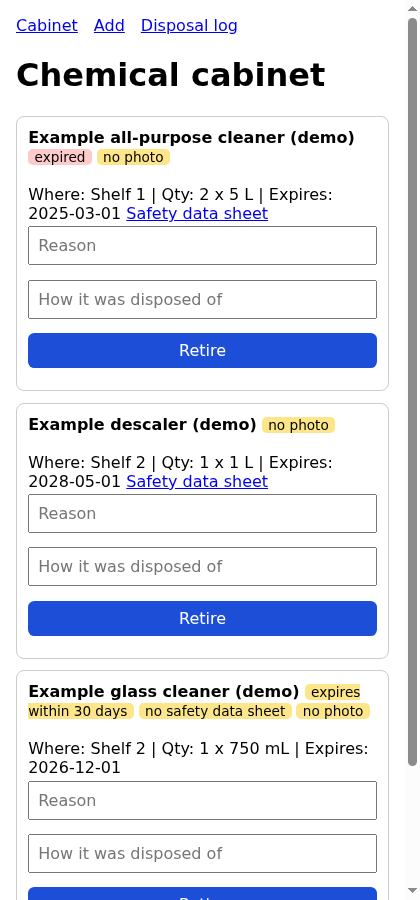
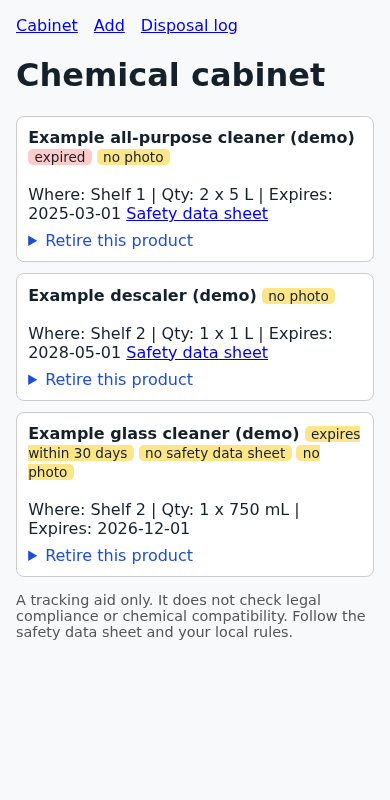
Explain LAN use, soften license wording, compact retire form

diff --git a/docs/index.html b/docs/index.html
@@ -64,7 +64,7 @@ footer{padding:2rem 0;color:var(--mute);font-size:.95rem}
 <pre>git clone https://github.com/HALCONDEORO/chemical-cabinet
 cd chemical-cabinet
 python -m chemical_cabinet --data ./data --port 8080</pre>
-<p>Open <code>http://localhost:8080</code>. Everything is stored in the <code>data</code> folder: copy it to back up.</p>
+<p>Open <code>http://localhost:8080</code> on that computer. To reach it from a phone on the same Wi-Fi, start it with <code>--host 0.0.0.0</code> on a machine in the building and open that machine's address from the phone. Phone cameras in a browser usually need HTTPS, so a reverse proxy with a password and HTTPS is the better setup. Everything is stored in the <code>data</code> folder: copy it to back up.</p>
 <div class="note"><b>No login.</b> The app has no accounts. Keep it on a trusted network, or put it behind a reverse proxy that does authentication and HTTPS. Do not publish it to the internet as is.</div>
 </section>
 <section>
@@ -73,7 +73,7 @@ python -m chemical_cabinet --data ./data --port 8080</pre>
 </section>
 <section>
 <h2>Other open source tools</h2>
-<p>Several free chemical inventory tools already exist, mostly built for university labs. If you run a lab, look at them first. This project aims at something smaller: one cupboard, no database server, nothing to install. We read the others for ideas only and copied none of their code, because most use GPL or AGPL licenses.</p>
+<p>Several free chemical inventory tools already exist, mostly built for university labs. If you run a lab, look at them first. This project aims at something smaller: one cupboard, no database server, nothing to install. We read the others for ideas and copied none of their code. GPL and AGPL code can be reused, but only in a project that accepts those license terms, and this one is MIT for now. A non-commercial license (CC BY-NC-SA) is not an open source license.</p>
 <div class="tablewrap"><table>
 <tr><th>Project</th><th>Aimed at</th><th>License (as listed on its page)</th></tr>
 <tr><td><a href="https://github.com/ICIQ-DMP/open-enventory">open_enventory</a></td><td>Labs: inventory and electronic lab notebook (PHP)</td><td>AGPL (per the US fork listing)</td></tr>

diff --git a/chemical_cabinet/app.py b/chemical_cabinet/app.py
@@ -17,12 +17,12 @@ PHOTO_TYPES = {"image/jpeg": ".jpg", "image/png": ".png", "image/webp": ".webp"}
 SDS_TYPES = {"application/pdf": ".pdf"}
 SAFE_NAME = re.compile(r"^[0-9a-f]{16}\.(jpg|png|webp|pdf)$")
 
-CSS = ("body{font-family:system-ui,sans-serif;margin:0;padding:1rem;max-width:42rem;margin:auto}"
+CSS = ("body{font-family:system-ui,sans-serif;margin:0;padding:1rem;max-width:42rem;margin:auto;background:#f7f9fb;color:#16202a}"
        "input,textarea,button{font:inherit;width:100%;box-sizing:border-box;margin:.2rem 0 .7rem;padding:.5rem}"
        "button{background:#1d4ed8;color:#fff;border:0;border-radius:.4rem}"
-       ".card{border:1px solid #ccc;border-radius:.5rem;padding:.7rem;margin:.7rem 0}"
+       ".card{background:#fff;border:1px solid #ccc;border-radius:.5rem;padding:.7rem;margin:.7rem 0}"
        ".flag{background:#fde68a;border-radius:.3rem;padding:0 .4rem;margin-right:.3rem;font-size:.85rem}"
-       ".bad{background:#fecaca}img{max-width:100%;border-radius:.4rem}"
+       "summary{cursor:pointer;color:#1d4ed8;margin-top:.5rem}.bad{background:#fecaca}img{max-width:100%;border-radius:.4rem}"
        "nav a{margin-right:1rem}.note{color:#555;font-size:.9rem}")
 
 
@@ -53,8 +53,9 @@ def render_list(items):
         sds = " <a href='/files/%s'>Safety data sheet</a>" % e(it["sds"]) if it["sds"] else ""
         out.append(
             "<div class=card><b>%s</b> %s<br>%s%s<br>Where: %s | Qty: %s | Expires: %s%s"
+            "<details><summary>Retire this product</summary>"
             "<form method=post action='/retire/%d'><input name=reason placeholder='Reason'>"
-            "<input name=method placeholder='How it was disposed of'><button>Retire</button></form></div>"
+            "<input name=method placeholder='How it was disposed of'><button>Retire</button></form></details></div>"
             % (e(it["name"]), chips, photo, e(it["notes"]), e(it["location"]), e(it["quantity"]),
                e(it["expires_on"] or "?"), sds, it["id"]))
     return "".join(out)

diff --git a/README.md b/README.md
@@ -16,7 +16,11 @@ This is a tracking aid. It does **not** check legal compliance, does not tell yo
 python -m chemical_cabinet --data ./data --port 8080
 ```
 
-Open `http://localhost:8080` from a phone or computer on the same network. The app has **no login**. Do not expose it to the internet directly: keep it on a trusted network or put it behind a reverse proxy that does authentication and HTTPS. Data (SQLite database and uploads) lives in the `--data` folder, so backing it up is copying that folder.
+Open `http://localhost:8080` on the computer that runs it. ### Using it from a phone
+
+By default the app only listens on `127.0.0.1`, so a phone cannot reach it. To use it from a phone on the same Wi-Fi, run it on a computer or small server in the building with `--host 0.0.0.0` (or that machine's LAN address) and open `http://<that machine's address>:8080` on the phone. Only do this on a network you trust, and prefer a reverse proxy that adds a password and HTTPS (taking photos from the browser camera usually needs HTTPS). Never forward the port to the internet.
+
+The app has **no login**. Do not expose it to the internet directly: keep it on a trusted network or put it behind a reverse proxy that does authentication and HTTPS. Data (SQLite database and uploads) lives in the `--data` folder, so backing it up is copying that folder.
 
 Needs Python 3.9 or newer.
 

diff --git a/docs/ALTERNATIVES.md b/docs/ALTERNATIVES.md
@@ -19,4 +19,6 @@ Most of the above are built for labs and need a database server, a runtime or a 
 
 ## What was reused
 
-No code. The ideas (inventory with expiry, safety data sheet per product, a disposal record) are common to all of them. GPL, AGPL and non-commercial licenses would not allow copying code into an MIT project, so nothing was copied. If you want to reuse something from the MIT-licensed projects, keep their copyright notice.
+No code. The ideas (inventory with expiry, safety data sheet per product, a disposal record) are common to all of them.
+
+Licenses decide what could be reused later. GPL and AGPL code can be reused, but the combined work must then follow the same terms, which does not fit this project's MIT license as it stands. We could change the license of this project if a good reuse case appears. CC BY-NC-SA is a non-commercial license, not an open source one. MIT code can be reused if its copyright notice is kept.
